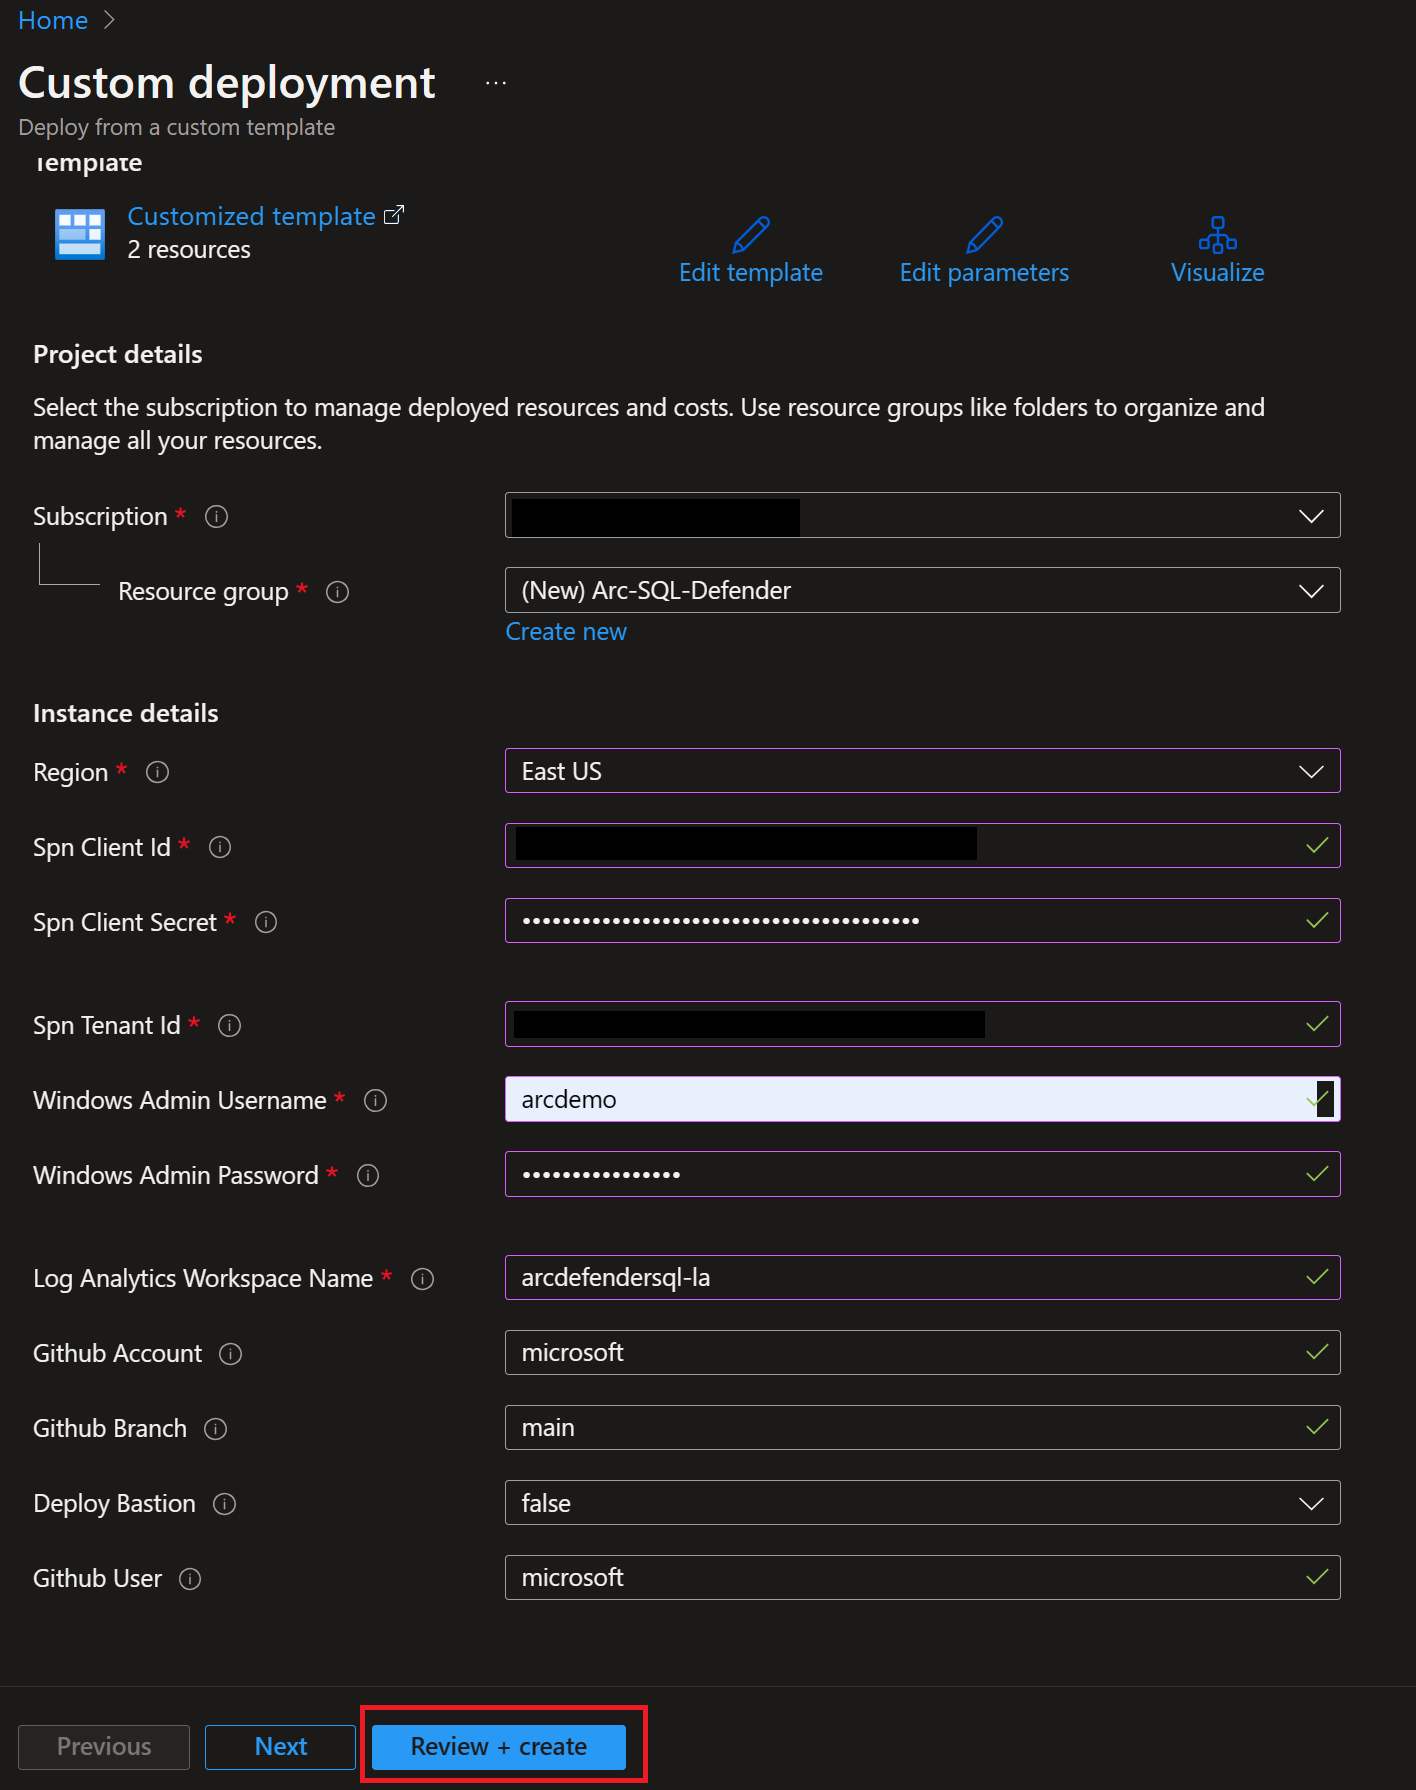
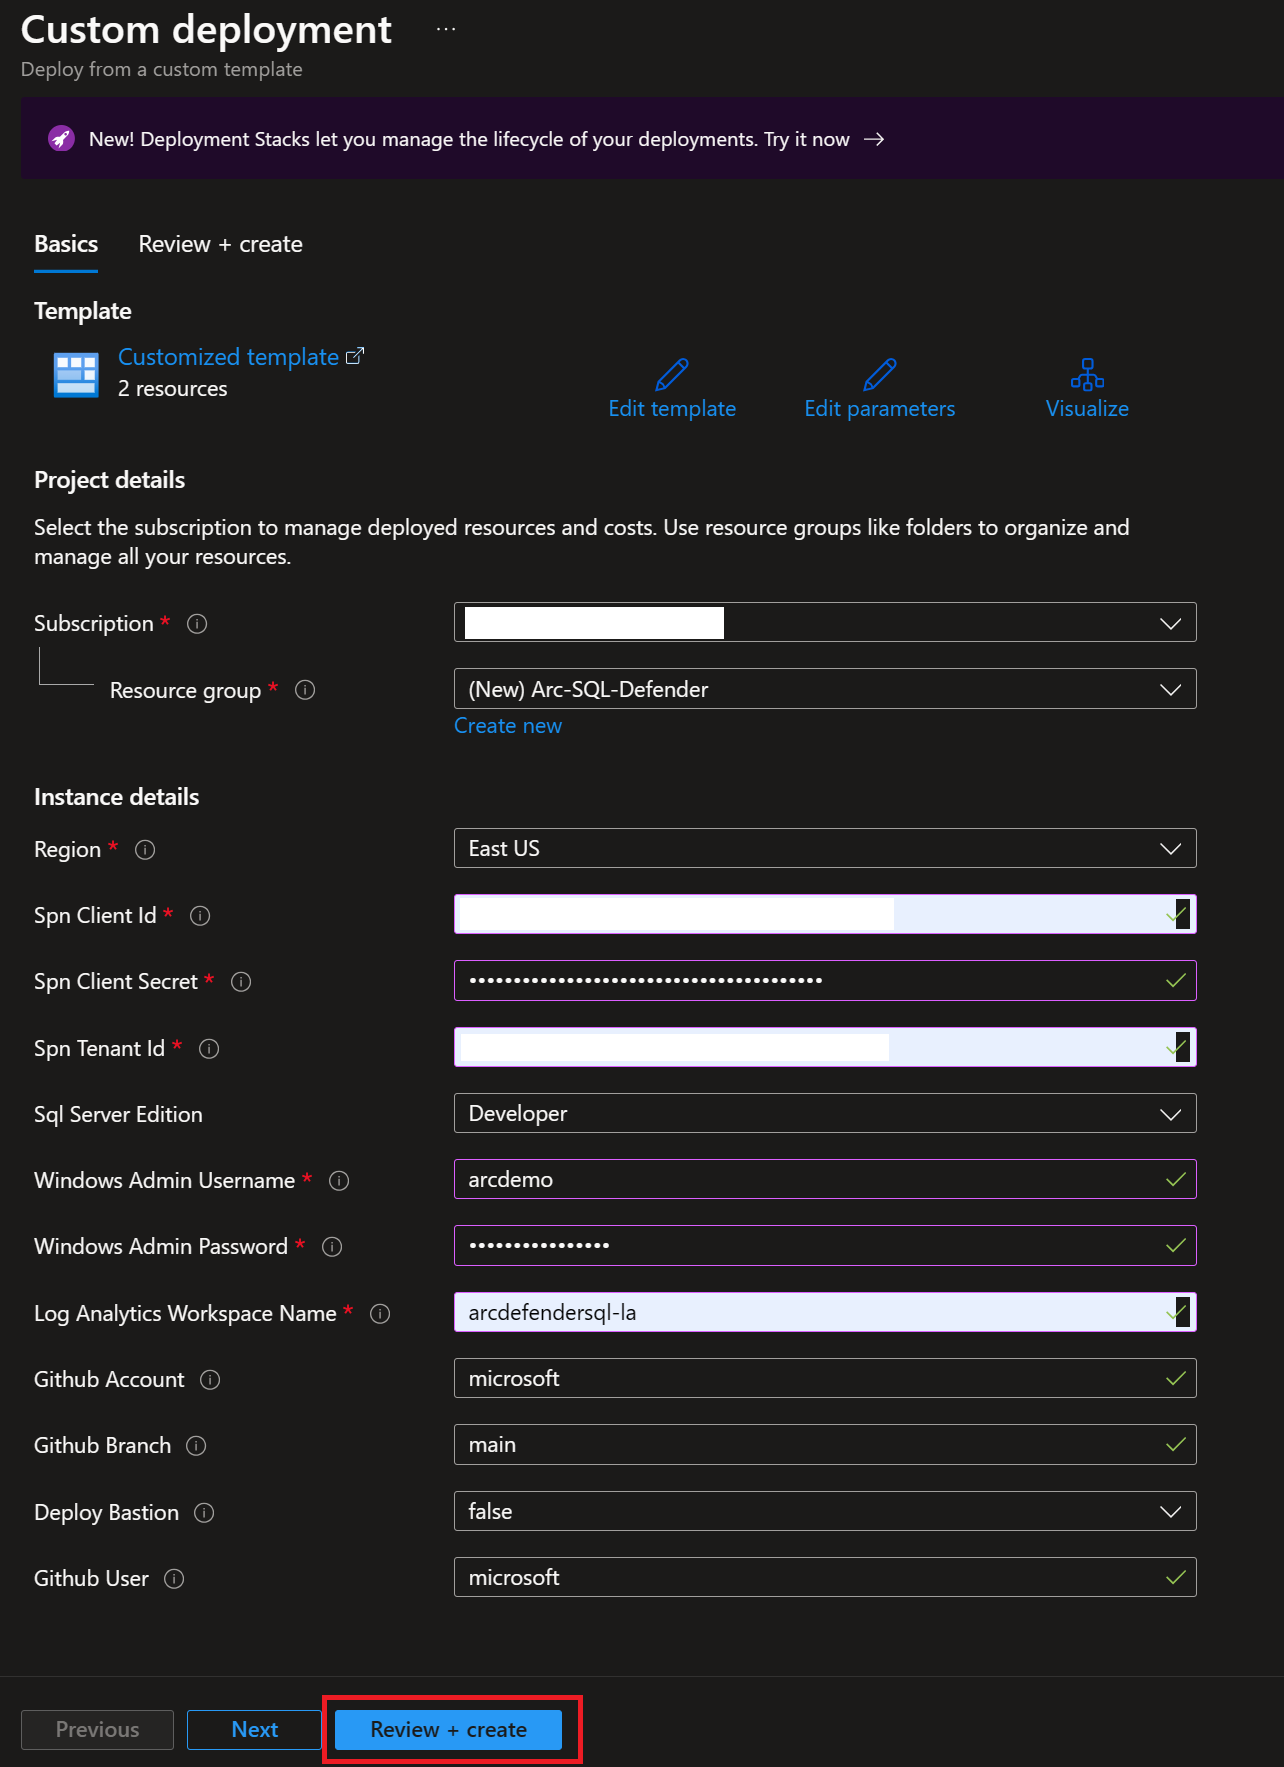
Updated documentation to reflect latest changes to the scenario

diff --git a/docs/azure_arc_jumpstart/azure_arc_sqlsrv/azure/azure_arm_template_sqlsrv_winsrv_defender/_index.md b/docs/azure_arc_jumpstart/azure_arc_sqlsrv/azure/azure_arm_template_sqlsrv_winsrv_defender/_index.md
@@ -111,6 +111,8 @@ To get familiar with the automation and deployment flow read the following expla
 
   ![Screenshot showing Azure portal deployment of Jumpstart scenario](./portaldeploy.png)
 
+  > **Note:** Use SQL Server Edition parameter to deploy SQL Server Standard or Enterprise edition on the Hyper-V guest VM. Supported values are Developer, Standard, and Enterprise. Default is Developer edition. Azure Arc-enabled SQL Server features such as performance metrics requires Standard or Enterprise edition.
+
   ![Screenshot showing Azure portal deployment creation of Jumpstart scenario](./portaldeploy-create.png)
 
   ![Screenshot showing Azure portal deployment progress of Jumpstart scenario](./portaldeployinprogress.png)
@@ -125,6 +127,16 @@ As mentioned, this deployment will use an ARM Template. You will deploy a single
 
 - The deployment uses the ARM template parameters file. Before initiating the deployment, edit the [_azuredeploy.parameters.json_](https://github.com/microsoft/azure_arc/blob/main/azure_arc_sqlsrv_jumpstart/azure/windows/defender_sql/arm_template/azuredeploy.parameters.json) file located in your local cloned repository folder. An example parameters file is located [here](https://github.com/microsoft/azure_arc/blob/main/azure_arc_sqlsrv_jumpstart/azure/windows/defender_sql/arm_template/azuredeploy.parameters.example.json).
 
+Edit the [azuredeploy.parameters.json](https://github.com/microsoft/azure_arc/blob/main/azure_jumpstart_arcbox/ARM/azuredeploy.parameters.json) ARM template parameters file and supply some values for your environment.
+
+- _`spnClientId`_ - Your Azure service principal id
+- _`spnClientSecret`_ - Your Azure service principal secret
+- _`spnTenantId`_ - Your Azure tenant id
+- _`sqlServerEdition`_ - SQL Server edition to deploy on the Hyper-V guest VM. Supported values are Developer, Standard, and Enterprise. Default is Developer edition. Azure Arc-enabled SQL Server features such as performance metrics requires Standard or Enterprise edition.
+- _`windowsAdminUsername`_ - Client Windows VM Administrator username
+- _`windowsAdminPassword`_ - Client Windows VM Password. Password must have 3 of the following: 1 lower case character, 1 upper case character, 1 number, and 1 special character. The value must be between 12 and 123 characters long
+- _`logAnalyticsWorkspaceName`_ - Name for the ArcBox Log Analytics workspace that will be created
+- _`deployBastion`_ - Set to *`true`* if you want to use Azure Bastion to connect to _ArcBox-Client_
 - Create a Resource Group which will contain the target for the ARM Template deployment using the following command:
 
     ```shell
@@ -273,13 +285,35 @@ Please note it may take some time to show this status in the Azure portal, but s
 
   ```text
   Username: Administrator
-  Password: ArcDemo123!!
+  Password: JS123!!
   ```
 
   ![Screenshot showing manual execution of the test scripts](./manual-brute-force-test.png)
 
 - The below screenshot shows an email alert sent by Defender for Cloud when a SQL threat is detected. By default, this email is sent to the registered contact email at the subscription level.
   ![Screenshot showing test script results](./brute-force-attack-alert.png)
+
+## Basic troubleshooting
+
+Occassionally Defender for Cloud for SQL may not detect SQL threats generated by the simulation script file _testDefenderForSQL.ps1_ executed during the Client VM logon and will not receive alert email as documented in this scenario. Retry executing this script on the Hyper-V guest VM _JS-Win-SQL-01_ to re-generate threats and receive alert email. Follow the steps below to re-run the _testDefenderForSQL.ps1_ script.
+
+- On the _JS-Client_ Azure VM desktop, locate Hyper-V Manager icon as shown below and double click to open Hyper-V Manager.
+ ![Screenshot showing Hyper-V Manager desktop icon](./locate-hyper-v-manager.png)
+
+- In the Hyper-V Manager expand JS-Client and double click on the JS-Win-SQL-01 guest VM to login.
+ ![Screenshot showing SQL server guest VM in Hyper-V Manager](./locate-guest-sql-vm.png)
+
+- Click connect.
+ ![Screenshot showing to connect SQL server guest VM](./connect-guest-sql-vm.png)
+
+- Enter Administrator password as _JS123!!_ and login to the guest VM.
+ ![Screenshot showing enter password to login to guest VM](./login-to-guest-vm.png)
+
+- Open Windows Explorer and navigate to C:\Jumpstart\agentScript folder.
+ ![Screenshot showing locating Defender for SQL simulation script file](./locate-simulation-script.png)
+
+- Right click _testDefenderForSQL.ps1_ script file and select _Run with PowerShell_.
+ ![Screenshot showing executing Defender for SQL simulation script file](./execute-defender-simulation-script.png)
 
 ## Cleanup
 
